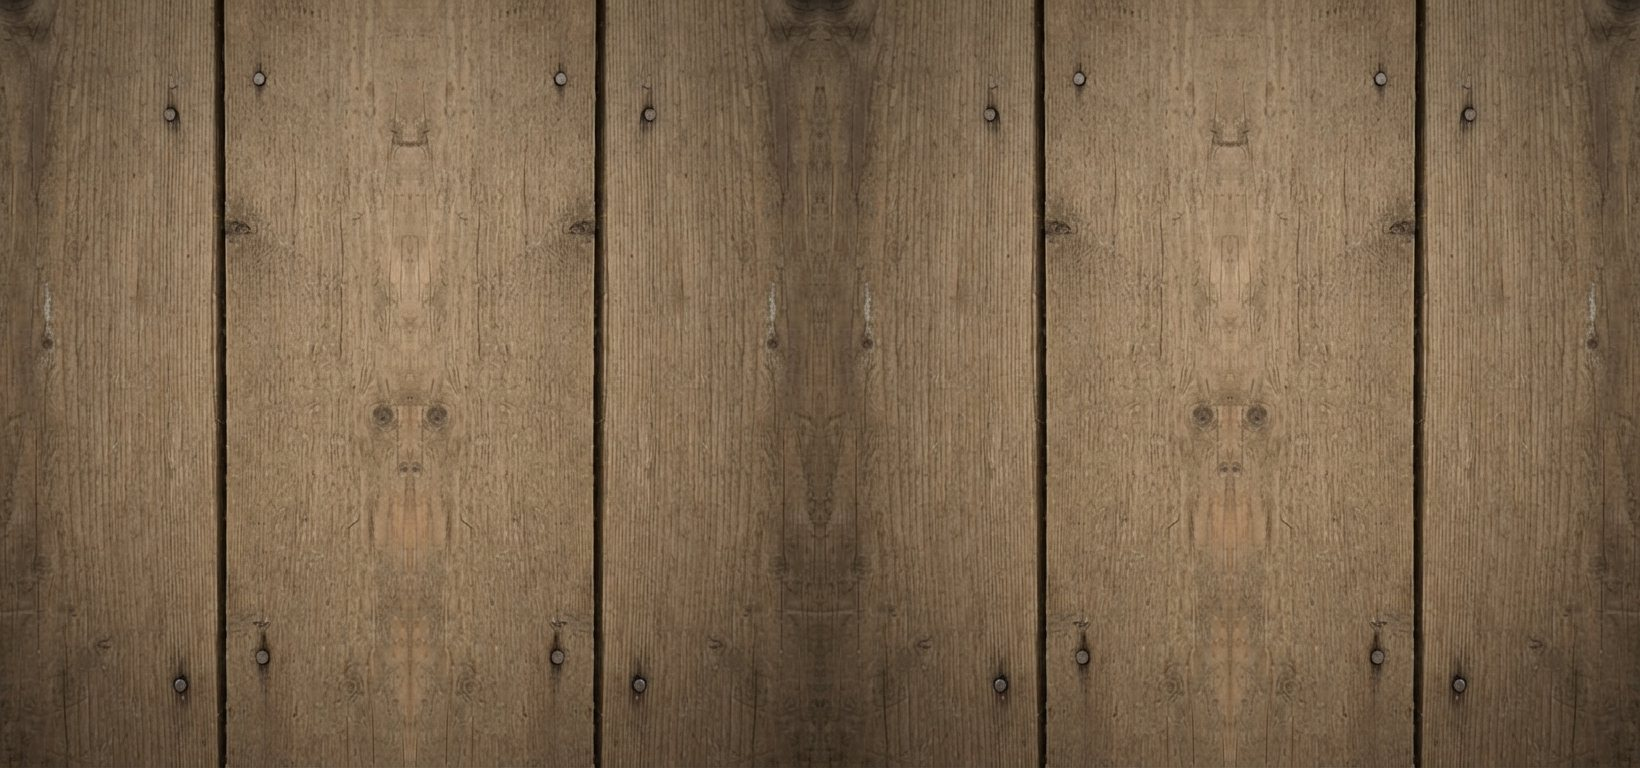
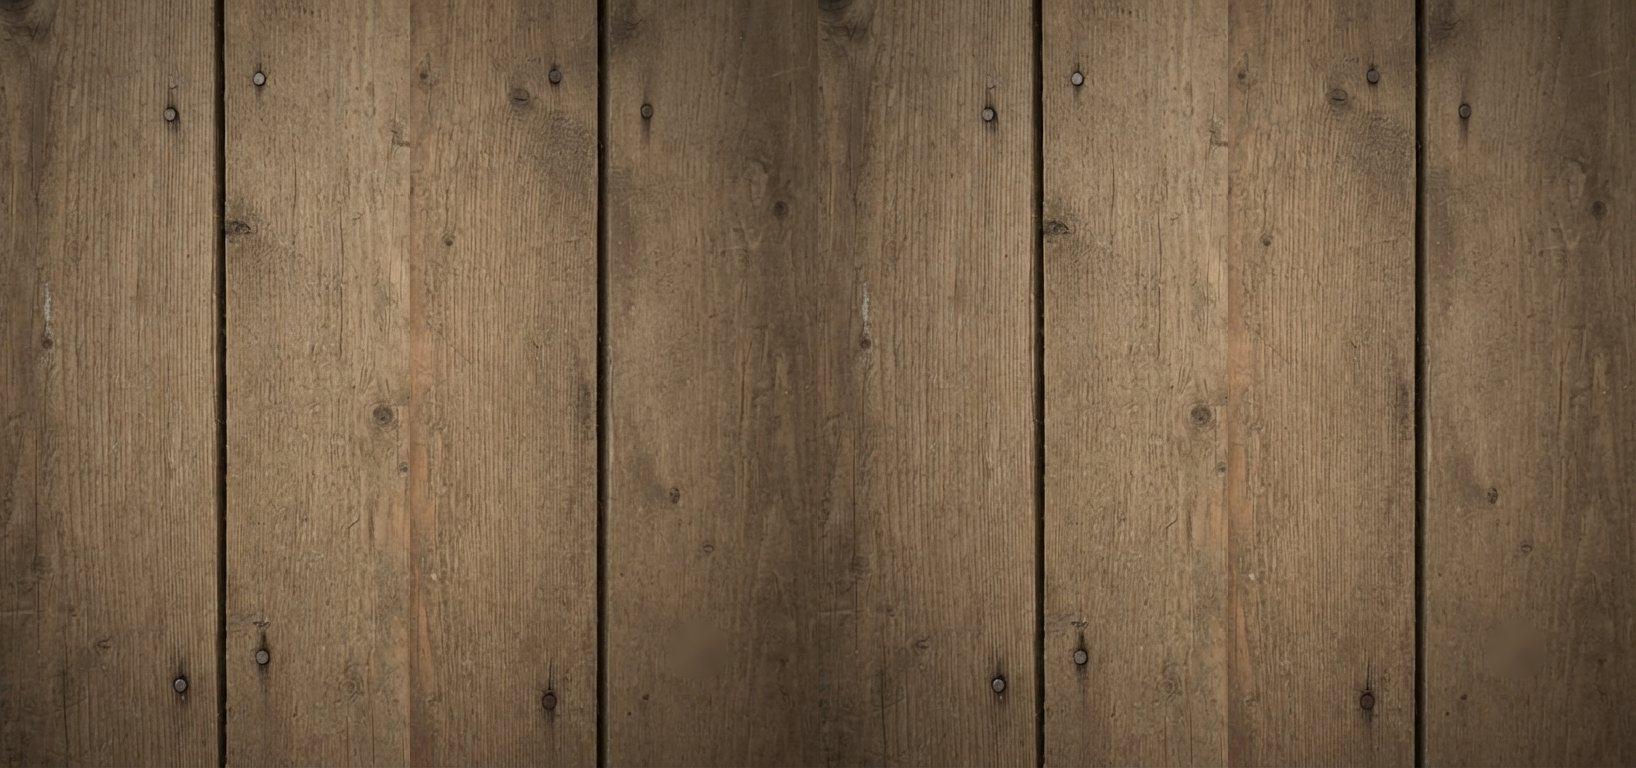
대기방을 왼쪽 설정 · 오른쪽 수배서 · 아래 채팅으로, 흙먼지 빨리 걷힘, 결과판 부드럽게, 단추 칼 조금 길게

Changed region(s): [[0.7482, 0.0, 1.0, 1.0], [0.2494, 0.0, 0.4988, 1.0]]

diff --git a/public/style.css b/public/style.css
@@ -20,7 +20,7 @@ body[data-view="select"] #scene { cursor: pointer; }
 body[data-view="game"] #quitBtn, body[data-view="lobby"] #quitBtn, body[data-view="over"] #quitBtn { display: inline-block; }
 
 .view { position: fixed; inset: 0; z-index: 3; display: none; padding: 60px 16px 24px; align-items: center; justify-content: flex-end; flex-direction: column; overflow-y: auto; }
-body[data-view="title"] #title, body[data-view="home"] #home, body[data-view="lobby"] #lobby, body[data-view="over"] #over, body[data-view="soon"] #soon { display: flex; }
+body[data-view="title"] #title, body[data-view="home"] #home, body[data-view="over"] #over, body[data-view="soon"] #soon { display: flex; }
 #title { padding-bottom: 17vh; }
 #startGameBtn { opacity: 0; transition: opacity .6s, transform .15s; }
 .ready #startGameBtn { opacity: 1; }
@@ -29,7 +29,6 @@ body[data-view="title"] #title, body[data-view="home"] #home, body[data-view="lo
 .result {
   border: 34px solid transparent;
   border-image: url(/img/paper_panel.png) 70 fill / 34px stretch;
-  filter: drop-shadow(0 18px 40px #000c);
 }
 
 /* ───────── 단추 — 나무 활자로 찍은 잉크 ───────── */
@@ -83,22 +82,45 @@ body[data-view="title"] #title, body[data-view="home"] #home, body[data-view="lo
 small { font-size: 12px; opacity: .7; font-weight: 700; }
 @keyframes pin { from { opacity: 0; transform: translateY(-30px) rotate(-3deg); } }
 
-/* ───────── 대기방 — 먹색 띠 · 자리 메뉴 · 채팅 ───────── */
-#lobby { padding: 0 0 12px; align-items: stretch; justify-content: flex-end; pointer-events: none; }
-.bar {
-  pointer-events: auto; margin: 0 12px; display: flex; flex-wrap: wrap; gap: 10px 18px; align-items: center; justify-content: space-between;
-  padding: 12px 38px; color: var(--paper); background: #24160cee;
-  clip-path: polygon(20px 0, calc(100% - 20px) 0, 100% 50%, calc(100% - 20px) 100%, 20px 100%, 0 50%);
+/* ───────── 대기방 — 왼쪽 방 설정 · 오른쪽 위 수배서 · 아래 채팅 ───────── */
+#lobby {
+  display: none; padding: 58px 18px 18px; gap: 16px 20px; pointer-events: none; align-items: stretch; justify-content: stretch;
+  grid-template-columns: minmax(250px, 300px) 1fr; grid-template-rows: 1fr minmax(170px, 30vh);
+  grid-template-areas: "rules wall" "rules chat";
 }
-.bar .btn { color: var(--paper); border-color: var(--paper); }
-.bar .btn:hover { background: var(--paper); color: var(--ink); }
-.bar .btn.primary { border-color: var(--red); color: var(--paper-hi); }
-.bar .btn.primary:hover { background: #6e1f13; color: var(--paper-hi); }
-.bar select option { color: #222; }
-.code-box, .opts, .go { display: flex; gap: 12px; align-items: center; }
-.bar small { font: 11px var(--slab); letter-spacing: .15em; opacity: .75; }
-.code { font: 30px/1 var(--wood); letter-spacing: .12em; color: var(--paper-hi); }
-.bar .err { color: #ffb08a; }
+body[data-view="lobby"] #lobby { display: grid; }
+#wall { grid-area: wall; }
+.rules {
+  grid-area: rules; pointer-events: auto; align-self: start;
+  border: 30px solid transparent; border-image: url(/img/paper_panel.png) 70 fill / 30px stretch;
+  filter: drop-shadow(0 16px 30px #000b);
+  display: grid; gap: 10px; text-align: center; color: var(--ink);
+}
+.rules-kicker { margin: 0; font: 13px var(--slab); letter-spacing: .25em; }
+.rules .code { font: 46px/1 var(--wood); letter-spacing: .1em; color: var(--red); }
+.rules-list { display: grid; gap: 2px; margin: 8px 0 4px; border-top: 3px double var(--ink); padding-top: 8px; }
+.rules-list label { display: flex; align-items: baseline; justify-content: space-between; gap: 10px; padding: 7px 0; border-bottom: 1px dashed var(--ink-soft); font: 900 15px var(--kr); }
+.rules-list select { border: 0; background: #0000; font: 900 15px var(--kr); color: var(--red); text-align: right; outline: none; cursor: pointer; }
+.rules-list select:disabled { color: var(--ink); cursor: default; appearance: none; }
+.rules-note { margin: 0; font-size: 12.5px; font-weight: 700; opacity: .75; min-height: 1em; }
+.rules .go { display: grid; gap: 8px; }
+.rules .btn.primary { font-size: 22px; padding: 12px; }
+
+.chat {
+  grid-area: chat; pointer-events: auto; min-height: 0;
+  display: grid; grid-template-rows: auto 1fr auto; gap: 6px;
+  background: #1a100ae0; color: var(--paper); padding: 10px 14px 12px;
+  border-top: 3px double #e2c48c99;
+}
+.chat-kicker { margin: 0; font: 12px var(--slab); letter-spacing: .25em; color: #e0b35e; }
+#chatLog { list-style: none; margin: 0; padding: 0; overflow-y: auto; display: flex; flex-direction: column; gap: 3px; font-size: 14px; user-select: text; min-height: 0; }
+#chatLog li b { font: 12px var(--slab); color: #e0b35e; margin-right: 8px; letter-spacing: .03em; }
+#chatLog li.me b { color: #ffb08a; }
+#chatLog li.sys { font-style: italic; opacity: .65; }
+#chatForm { display: flex; gap: 8px; }
+#chatIn { flex: 1; min-width: 0; border: 0; border-bottom: 1px solid #e2c48c88; background: #0000; color: var(--paper); padding: 6px 2px; outline: none; user-select: text; font-size: 15px; }
+.chat .btn { color: var(--paper); border-color: var(--paper); }
+.chat .btn:hover { background: var(--paper); color: var(--ink); }
 
 .slotmenu {
   position: fixed; z-index: 6; pointer-events: auto; display: grid; gap: 8px; padding: 0 12px;
@@ -112,28 +134,21 @@ small { font-size: 12px; opacity: .7; font-weight: 700; }
 .sm-body { display: grid; gap: 6px; }
 .sm-body .btn { font-size: 16px; padding: 8px; }
 
-.chat {
-  position: fixed; right: 24px; bottom: 84px; z-index: 5; pointer-events: auto;
-  width: min(300px, calc(100% - 32px)); display: grid; gap: 6px;
-  background: #1a100ad9; color: var(--paper); padding: 10px; border-top: 3px solid var(--paper);
+@media (max-width: 760px) {
+  #lobby { grid-template-columns: 1fr; grid-template-rows: minmax(300px, 1fr) 160px auto; grid-template-areas: "wall" "chat" "rules"; overflow-y: auto; }
+  .rules { align-self: stretch; }
 }
-#chatLog { list-style: none; margin: 0; padding: 0; max-height: 160px; overflow-y: auto; display: grid; gap: 3px; font-size: 13.5px; user-select: text; }
-#chatLog li b { font: 12px var(--slab); color: #e0b35e; margin-right: 6px; letter-spacing: .03em; }
-#chatLog li.me b { color: #ffb08a; }
-#chatLog li.sys { font-style: italic; opacity: .7; }
-#chatForm { display: flex; gap: 6px; }
-#chatIn { flex: 1; min-width: 0; border: 0; border-bottom: 1px solid #e2c48c88; background: #0000; color: var(--paper); padding: 5px 2px; outline: none; user-select: text; }
-.chat .btn { color: var(--paper); border-color: var(--paper); }
-.chat .btn:hover { background: var(--paper); color: var(--ink); }
 
 /* ───────── 결과 — 현상금 공고 ───────── */
-#over { align-items: center; justify-content: center; background: radial-gradient(ellipse at center, #0000 20%, #000b 100%); }
-.result { width: min(540px, 100%); text-align: center; animation: rise .5s cubic-bezier(.2,.8,.2,1) both; }
+#over { align-items: center; justify-content: center; background: radial-gradient(ellipse at center, #0006 20%, #000c 100%); animation: fade .6s ease-out both; }
+@keyframes fade { from { opacity: 0; } }
+.result { width: min(540px, 100%); text-align: center; animation: drop .7s .1s cubic-bezier(.2,.9,.25,1) both; will-change: transform, opacity; }
+@keyframes drop { from { opacity: 0; transform: translateY(-40px) rotate(-1.5deg); } }
 .kicker { margin: 0; font: 34px/1 var(--wood); color: var(--red); letter-spacing: .1em; }
 .kicker::before, .kicker::after { content: "★"; font-size: 18px; vertical-align: 8px; margin: 0 12px; }
 .result h2 { margin: 6px 0 14px; padding-bottom: 12px; font: 900 clamp(32px, 6vw, 50px)/1.1 var(--kr); border-bottom: 3px double var(--ink); }
 .ranks { list-style: none; margin: 0 0 18px; padding: 0; }
-.ranks li { display: grid; grid-template-columns: 30px 56px 1fr auto; align-items: center; gap: 12px; padding: 8px 4px; border-bottom: 1px dashed var(--ink-soft); text-align: left; animation: rise .45s cubic-bezier(.2,.8,.2,1) both; animation-delay: calc(.25s + var(--i) * .09s); }
+.ranks li { display: grid; grid-template-columns: 30px 56px 1fr auto; align-items: center; gap: 12px; padding: 8px 4px; border-bottom: 1px dashed var(--ink-soft); text-align: left; animation: rise .5s cubic-bezier(.2,.8,.2,1) both; animation-delay: calc(.45s + var(--i) * .1s); will-change: transform, opacity; }
 .ranks .rk { font: 24px var(--wood); text-align: center; color: var(--ink-soft); }
 .ranks li.win .rk { color: var(--red); }
 .ranks img { width: 56px; height: 56px; object-fit: cover; object-position: top; border: 2px solid var(--ink); box-shadow: inset 0 0 0 2px var(--paper); filter: sepia(.85) contrast(1.1) brightness(.95); background: #cdb07a; }
@@ -143,7 +158,7 @@ small { font-size: 12px; opacity: .7; font-weight: 700; }
 .ranks strong { font: 26px var(--wood); color: var(--ink); white-space: nowrap; }
 .ranks li.win strong { color: var(--red); }
 .ranks strong em { font: 12px var(--slab); font-style: normal; margin-left: 4px; }
-.acts { display: flex; gap: 14px; justify-content: center; flex-wrap: wrap; animation: rise .45s .6s both; }
+.acts { display: flex; gap: 14px; justify-content: center; flex-wrap: wrap; animation: rise .5s .85s both; }
 .wait { margin: 10px 0 0; font-weight: 700; font-size: 13px; }
 
 #toast { position: fixed; left: 50%; bottom: 28px; z-index: 9; transform: translateX(-50%); background: var(--paper); color: var(--ink); border: 2px solid var(--ink); box-shadow: inset 0 0 0 3px var(--paper), inset 0 0 0 4px var(--ink-soft), 0 8px 24px #000a; padding: 10px 18px; font-weight: 800; opacity: 0; transition: opacity .25s; pointer-events: none; }
@@ -175,7 +190,6 @@ small { font-size: 12px; opacity: .7; font-weight: 700; }
 @media (max-width: 700px) {
   #home { align-items: center; padding-left: 16px; }
   .sheet { --w: min(380px, 92vw); }
-  .chat { bottom: 200px; }
   .result { border-width: 24px; }
   .brush { font-size: 84px; }
   .bar { padding: 12px 28px; }

diff --git a/public/west.js b/public/west.js
@@ -271,8 +271,8 @@
       this.later(() => { this.S && this.S.thud(1); this.dustBurst(); this.shakeIt(300, 10); }, FALL + 2400);
       m.res.revealAt = t0 + FALL + 3100;                 // 먼지막이 가장 짙을 때 장면을 바꾼다
       this.later(() => { this.view = 'reveal'; }, FALL + 3100);
-      m.res.nameAt = t0 + FALL + 5300;
-      this.later(() => this.S && this.S.whistle(), FALL + 4900);
+      m.res.nameAt = t0 + FALL + 4300;
+      this.later(() => this.S && this.S.whistle(), FALL + 4000);
     }
 
     over(ev) { if (this.match) this.match.overAt = now(); void ev; }
@@ -643,7 +643,7 @@
     drawTitleSwords(t, cd, fs) {
       if (cd <= -240) return;
       const bp = this.btnCenter();
-      const L = Math.max(bp.w * 0.72, fs * 0.8);
+      const L = Math.max(bp.w * 0.9, fs * 1.0);
       // 위에서 내리꽂혀 단추 뒤에 거의 눕듯이 X 로 걸린다
       const stab = easeIn((cd + 240) / 240);
       const rec = cd > 0 ? Math.exp(-cd / 150) * Math.sin(cd / 38) * 0.04 : 0;
@@ -1060,17 +1060,16 @@
       const light = ctx.createRadialGradient(W / 2, H * 0.1, 0, W / 2, H * 0.3, Math.max(W, H) * 0.8);
       light.addColorStop(0, 'rgba(255,220,160,.18)'); light.addColorStop(1, 'rgba(0,0,0,.55)');
       ctx.fillStyle = light; ctx.fillRect(0, 0, W, H);
-      // 네 자리 — 넓으면 한 줄, 좁으면 두 줄. 아래는 단추 줄, 오른쪽 아래는 채팅
-      const barH = W < 700 ? 250 : 150;           // 아래 띠 + 채팅 자리
-      const top = 58, areaH = H - barH - top;
-      const wide = W / areaH > 1.6;
-      const cols = wide ? 4 : 2, rows = wide ? 1 : 2;
+      // 네 자리는 app 이 비워 둔 벽 자리(wallRect) 안에 — 넓으면 한 줄, 좁으면 두 줄
+      const r = (this.wallRect && this.wallRect()) || { left: 0, top: 58, width: W, height: H - 160 };
       const aspect = poster.width / poster.height;
-      const ph = Math.min((areaH - (rows + 1) * 16) / rows, (W - (cols + 1) * 40) / cols / aspect);
+      const fit = c => { const rw = Math.ceil(4 / c); return Math.min((r.height - (rw + 1) * 12) / rw, (r.width - (c + 1) * 28) / c / aspect); };
+      const cols = fit(4) >= fit(2) ? 4 : 2, rows = cols === 4 ? 1 : 2;
+      const ph = fit(cols);
       const pw = ph * aspect;
-      const gx = (W - cols * pw) / (cols + 1);
-      const gy = (areaH - rows * ph) / (rows + 1);
-      const at = i => ({ x: gx + (i % cols) * (pw + gx), y: top + gy + Math.floor(i / cols) * (ph + gy) });
+      const gx = (r.width - cols * pw) / (cols + 1);
+      const gy = (r.height - rows * ph) / (rows + 1);
+      const at = i => ({ x: r.left + gx + (i % cols) * (pw + gx), y: r.top + gy + Math.floor(i / cols) * (ph + gy) });
       this.slotRects = [0, 1, 2, 3].map(i => ({ ...at(i), w: pw, h: ph }));
       const list = [...(this.posters || new Map()).values()];
       for (let i = 0; i < 4; i++) {
@@ -1887,7 +1886,7 @@
       if (!m || !m.res || !m.res.hazeAt) return;
       const a = t - m.res.hazeAt;
       if (a < 0) return;
-      const up = easeOut(a / 520), down = easeIO((a - 900) / 1900);
+      const up = easeOut(a / 450), down = easeIO((a - 650) / 950);
       const k = up * (1 - down);
       if (k <= 0.005) return;
       const { ctx, W, H } = this;
@@ -1933,7 +1932,7 @@
       if (!m || !m.res) return;
       const a = t - m.res.revealAt;
       const win = this.pl(m.res.winId);
-      const ex = easeIO((a - 700) / 2200);
+      const ex = easeIO((a - 250) / 1500);
       ctx.save();
       const z = lerp(1.35, 1.55, easeIO(a / 5000));
       this.plateCam(955, 390, z);

diff --git a/public/index.html b/public/index.html
@@ -59,29 +59,31 @@
   </div>
 </section>
 
-<!-- 대기실 — 수배서 벽은 캔버스가 그린다. 여기는 아래 띠 · 자리 메뉴 · 채팅 -->
+<!-- 대기실 — 왼쪽 방 설정 · 오른쪽 위 사람들(수배서 벽은 캔버스가 #wall 자리에 그린다) · 그 아래 채팅 -->
 <section id="lobby" class="view">
-  <div class="slotmenu" id="slotMenu"><p class="sm-title" id="smTitle"></p><div class="sm-body" id="smBody"></div></div>
-  <div class="chat" id="chat">
-    <ol id="chatLog"></ol>
-    <form id="chatForm" autocomplete="off"><input id="chatIn" maxlength="120" placeholder="한마디"><button class="btn slim">보내기</button></form>
-  </div>
-  <div class="bar">
-    <div class="code-box">
-      <small>ROOM No.</small><b class="code" id="roomCode">----</b>
-      <button class="btn slim" id="copyBtn">초대 링크 복사</button>
+  <aside class="rules">
+    <p class="rules-kicker">ROOM No.</p>
+    <b class="code" id="roomCode">----</b>
+    <button class="btn slim" id="copyBtn">초대 링크 복사</button>
+    <div class="rules-list" id="hostOpts">
+      <label><span>판 수</span><select data-cfg="target"><option value="1">단판</option><option value="3">3선승</option><option value="5">5선승</option></select></label>
+      <label><span>신호</span><select data-cfg="signal"><option value="mix">화면에 "지금!"</option><option value="sound">소리만</option></select></label>
+      <label><span>거짓 신호</span><select data-cfg="decoys"><option value="true">포함</option><option value="false">없음</option></select></label>
     </div>
-    <div class="opts" id="hostOpts">
-      <select data-cfg="target"><option value="1">단판</option><option value="3">3선승</option><option value="5">5선승</option></select>
-      <select data-cfg="signal"><option value="mix">신호: 화면</option><option value="sound">신호: 소리만</option></select>
-      <select data-cfg="decoys"><option value="true">거짓 신호 포함</option><option value="false">거짓 신호 없음</option></select>
-    </div>
+    <p class="rules-note" id="rulesNote"></p>
     <span class="err" id="lobbyErr"></span>
     <div class="go">
-      <button class="btn" id="leaveBtn">나가기</button>
       <button class="btn primary" id="startBtn">결투 시작</button>
+      <button class="btn" id="leaveBtn">나가기</button>
     </div>
+  </aside>
+  <div id="wall"></div>
+  <div class="chat" id="chat">
+    <p class="chat-kicker">SALOON TALK</p>
+    <ol id="chatLog"></ol>
+    <form id="chatForm" autocomplete="off"><input id="chatIn" maxlength="120" placeholder="한마디 적기"><button class="btn slim">보내기</button></form>
   </div>
+  <div class="slotmenu" id="slotMenu"><p class="sm-title" id="smTitle"></p><div class="sm-body" id="smBody"></div></div>
 </section>
 
 <!-- 끝 — 승자 장면 위에 결과판 -->

diff --git a/public/app.js b/public/app.js
@@ -85,7 +85,7 @@
         G.phase = 'over';
         west.over(ev);
         clearTimeout(overT);
-        overT = setTimeout(() => showOver(ev), 1200);
+        overT = setTimeout(() => showOver(ev), 400);
         break;
     }
   }
@@ -246,8 +246,8 @@
     const s = N;
     const host = s.hostId === s.meId;
     $('#roomCode').textContent = s.code;
-    document.querySelectorAll('#hostOpts select[data-cfg]').forEach(sel => { sel.value = String(s.cfg[sel.dataset.cfg]); });
-    $('#hostOpts').hidden = !host;
+    document.querySelectorAll('#hostOpts select[data-cfg]').forEach(sel => { sel.value = String(s.cfg[sel.dataset.cfg]); sel.disabled = !host; });
+    $('#rulesNote').textContent = host ? '빈 자리를 누르면 봇을 앉히고, 다른 사람 수배서를 누르면 방장을 넘기거나 내보낼 수 있어요.' : '방장이 규칙을 정하고 있어요.';
     west.canAddBot = host && s.players.length < R.MAX_PLAYERS.west;
     if (!host) closeSlotMenu();
     $('#startBtn').disabled = !host;
@@ -392,6 +392,7 @@
   /* ─────────────────────── 시작 ─────────────────────── */
 
   west.btnRect = () => $('#startGameBtn').getBoundingClientRect();
+  west.wallRect = () => $('#wall').getBoundingClientRect();
   $('#startGameBtn').addEventListener('pointerenter', () => west.titleHover(true));
   $('#startGameBtn').addEventListener('pointerleave', () => west.titleHover(false));
   west.title();

diff --git a/public/duel.js b/public/duel.js
@@ -36,7 +36,7 @@
     intro: { west: 2000, samurai: 2600 },
     waitMin: 2200, waitMax: 6500,
     decoyGap: 900,                            // 가짜 신호와 진짜 신호 사이 최소 간격
-    result: { west: 9500, samurai: 3800 },       // 총성 → 암전 → 무릎 · 쓰러짐 → 먼지 너머 승자 · 이름
+    result: { west: 7800, samurai: 3800 },       // 총성 → 암전 → 무릎 · 쓰러짐 → 먼지 너머 승자 · 이름
     resultNone: 3200,                            // 아무도 못 맞혔을 때
   };
 

diff --git a/art/cut_wanted.py b/art/cut_wanted.py
@@ -49,9 +49,10 @@ print('poster.png', r - l, 'x', b - t, 'offset', (int(l), int(t)))
 wm = np.zeros((H, W), np.uint8)
 cv2.circle(wm, (1287, 649), 30, 1, -1)
 src = cv2.inpaint(src, wm, 9, cv2.INPAINT_TELEA)
-# 왼쪽 판자를 거울로 번갈아 이어 붙이면 경계에서 결이 이어진다
+# 왼쪽 · 오른쪽 판자를 번갈아 — 거울로 뒤집으면 옹이가 대칭으로 보여 어색하다
 left = src[:, 0:410]
-wall = np.hstack([left, left[:, ::-1], left, left[:, ::-1]])
+right = src[:, 1000:W]
+wall = np.hstack([left, right, left, right])
 cv2.imwrite(os.path.join(OUT, 'wood.jpg'), wall, [cv2.IMWRITE_JPEG_QUALITY, 84])
 print('wood.jpg', wall.shape[1], 'x', wall.shape[0])
 
